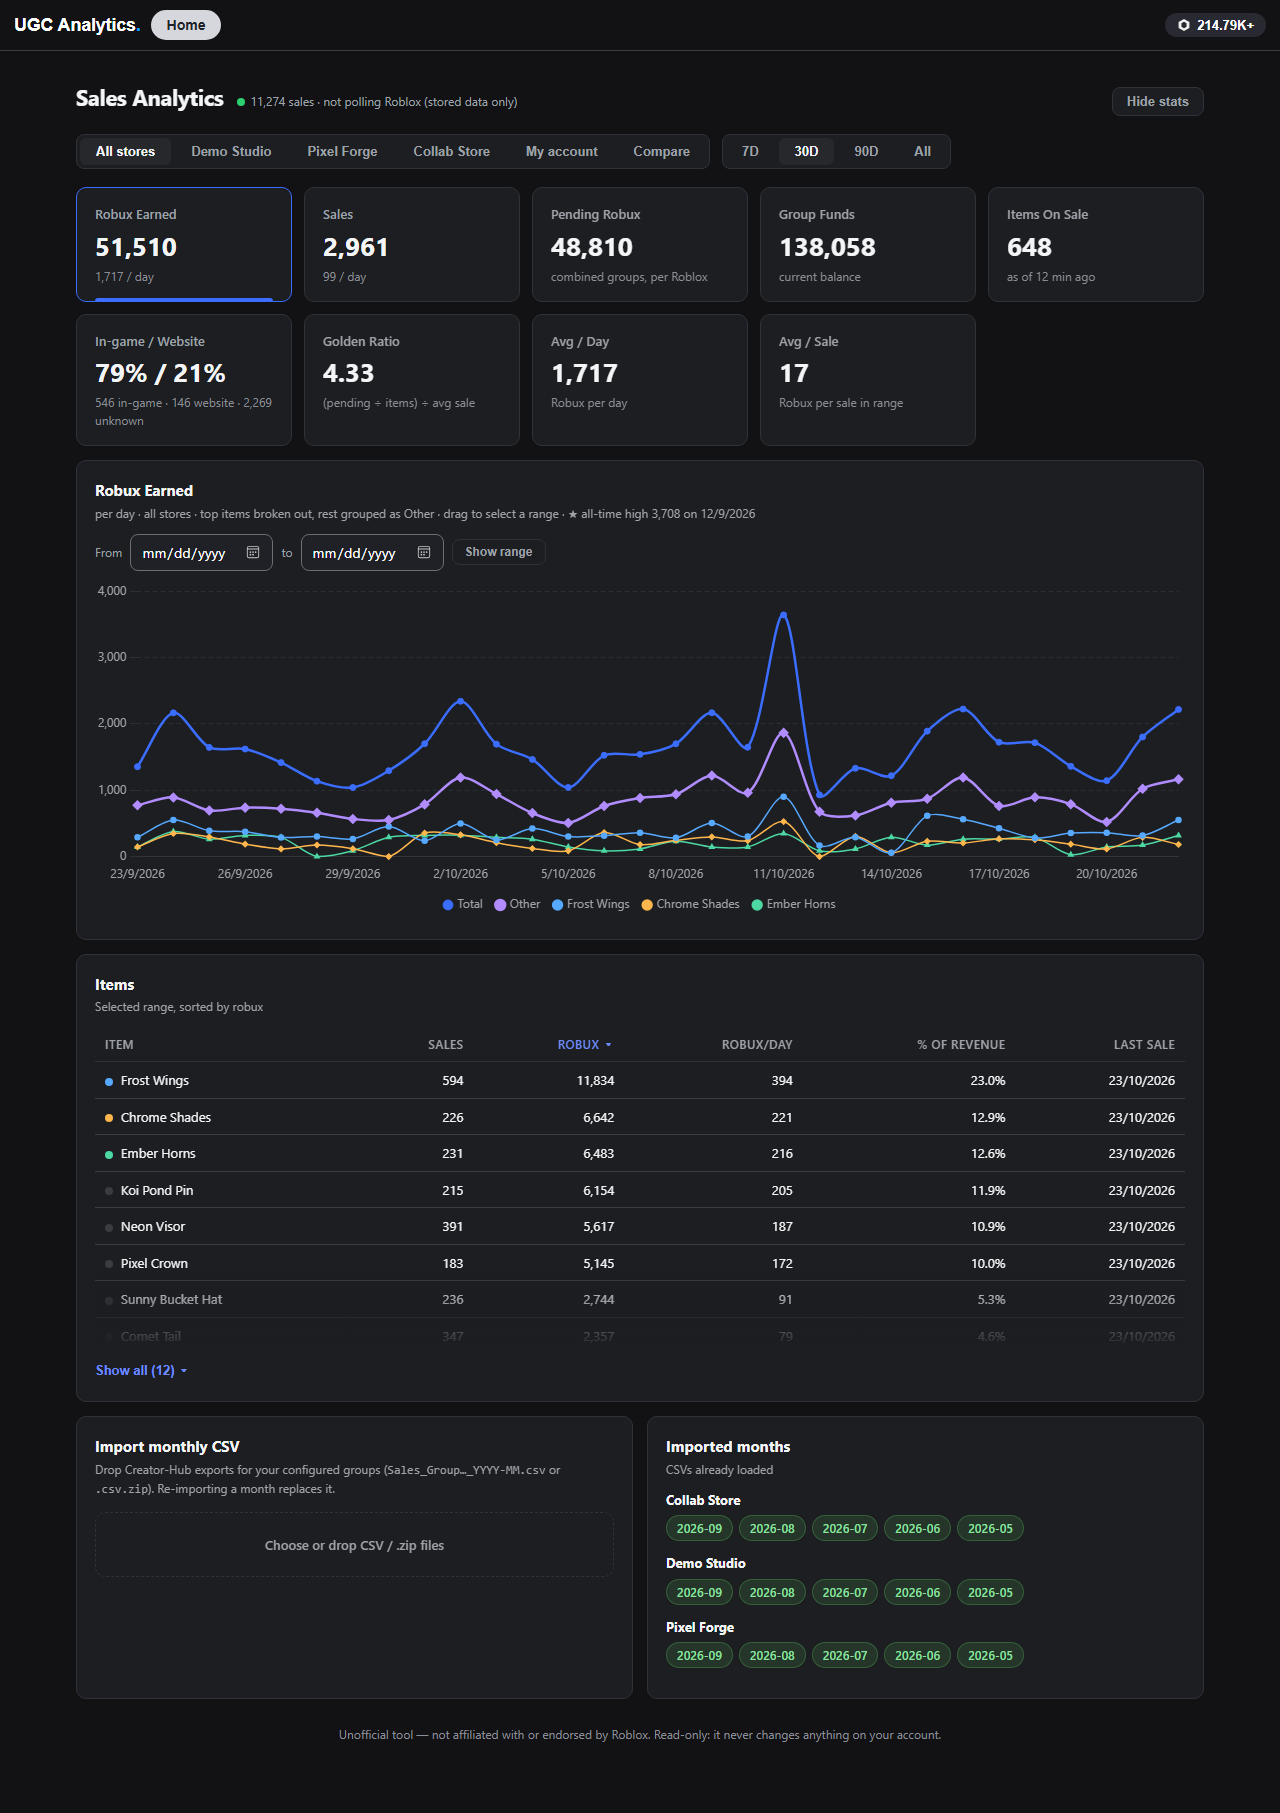
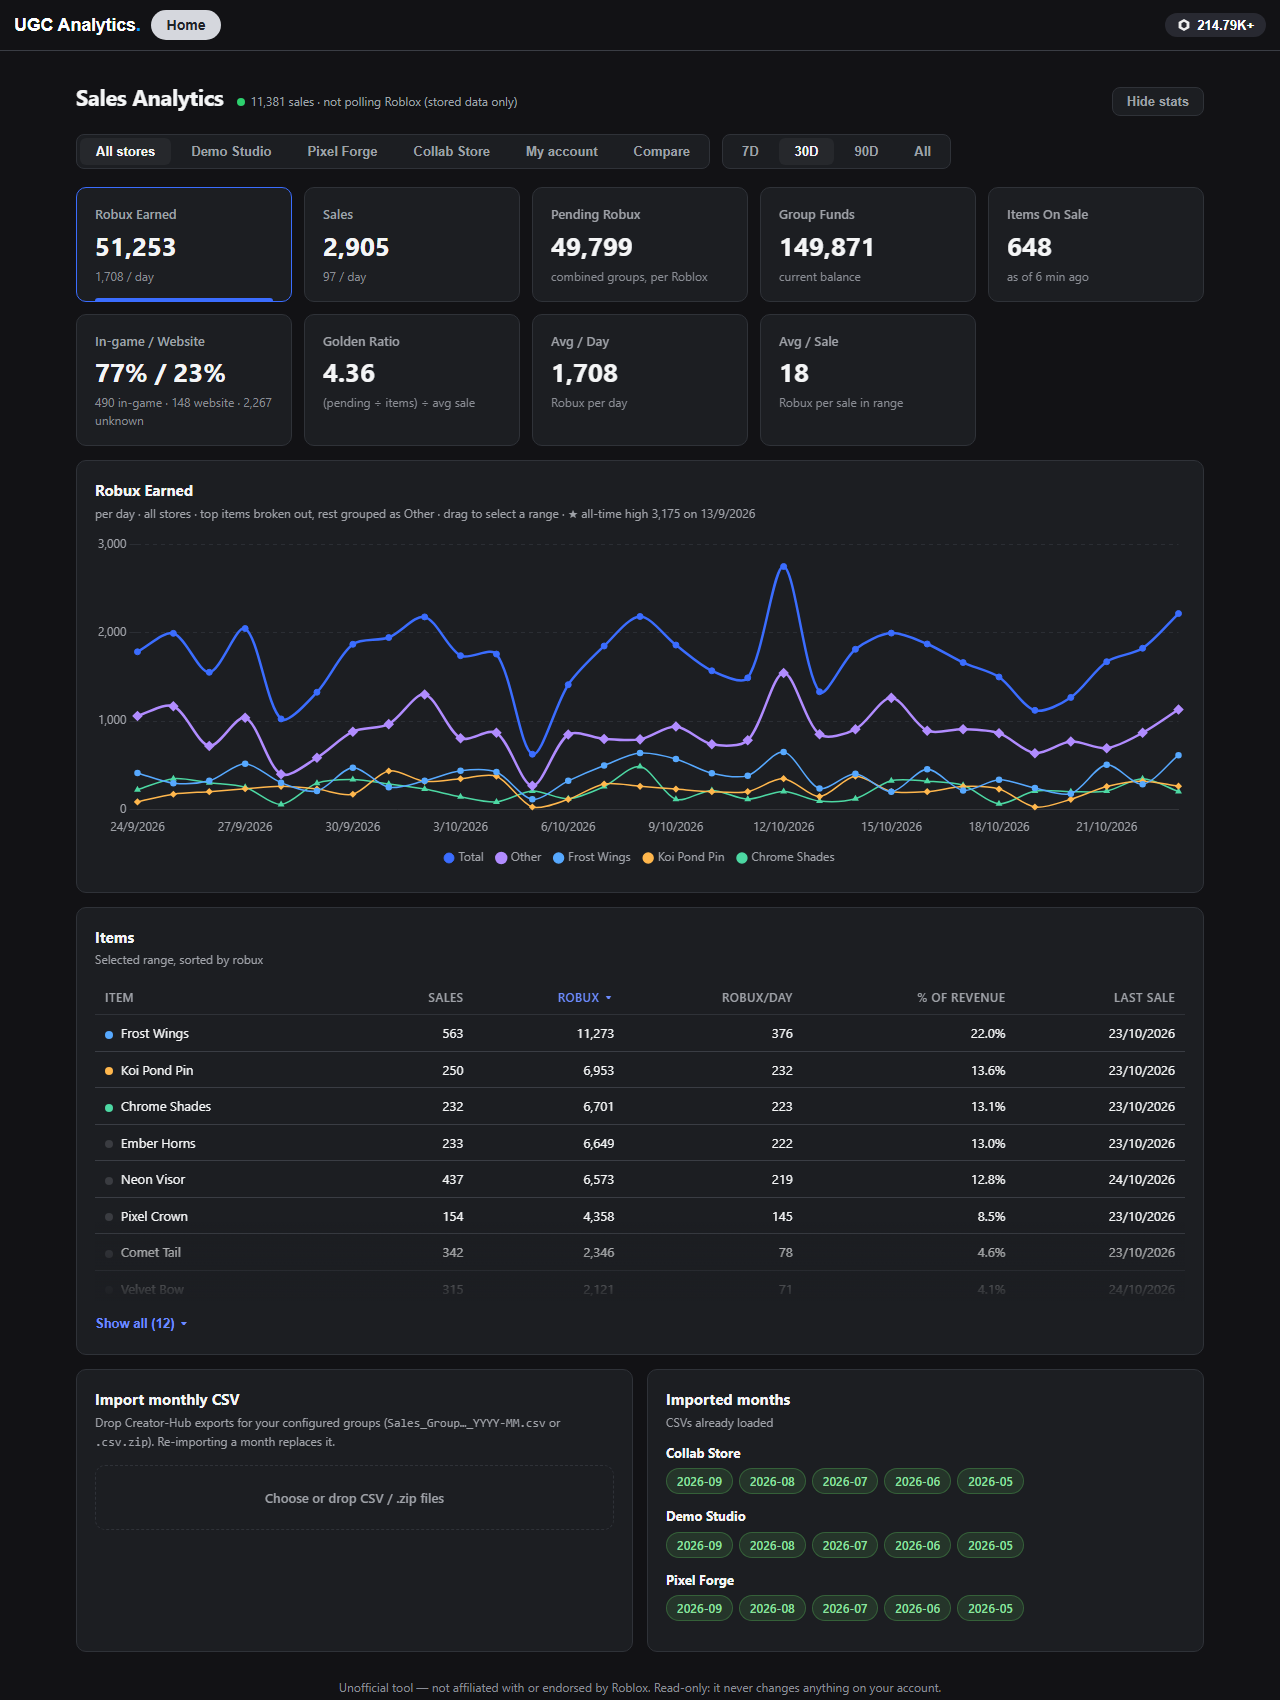
Remove the From/To date-range form above the chart
Drag-to-select on the chart still sets a custom range (with the clear chip);
the separate date form is gone, matching the original dashboard.
README screenshot retaken from the synthetic demo.

diff --git a/roblox_sales/static/app.js b/roblox_sales/static/app.js
@@ -190,15 +190,6 @@ function setupRangeSelect() {
   });
   canvas.addEventListener("pointercancel", () => { dragging = false; sel.style.display = "none"; });
 }
-// the keyboard / single-pointer alternative to dragging (inclusive of both days)
-$("rangeForm").addEventListener("submit", e => {
-  e.preventDefault();
-  let a = $("rgFrom").value, b = $("rgTo").value;
-  if (!a || !b) return;
-  if (a > b) [a, b] = [b, a];
-  customRange = { s: new Date(a + "T00:00:00Z").getTime(), e: new Date(b + "T00:00:00Z").getTime() + 864e5 - 1 };
-  render();
-});
 
 function render() {
   const data = filtered();
@@ -211,8 +202,6 @@ function render() {
     curSrc, v => { curSrc = v; customRange = null; render(); });
   const cmp = curSrc === "Compare";
   $("rangeTabs").style.display = cmp ? "none" : "";
-  $("rangeForm").hidden = cmp;
-  if (customRange) { $("rgFrom").value = dayKey(customRange.s); $("rgTo").value = dayKey(customRange.e); }
   if (cmp) $("rangeTabs").replaceChildren();
   else {
     mkTabs($("rangeTabs"),

diff --git a/roblox_sales/static/style.css b/roblox_sales/static/style.css
@@ -242,9 +242,6 @@ input:focus, select:focus, textarea:focus { box-shadow:0 0 0 3px rgba(0,162,255,
     letter-spacing:inherit; text-transform:inherit; cursor:pointer; }
   .sales-dash th.sortable.on .sd-sort::after { content:" ▾"; }
   /* the keyboard alternative to drag-selecting a range on the chart */
-  .sales-dash .sd-range { display:flex; align-items:center; gap:8px; flex-wrap:wrap; margin:0 0 10px; font-size:12px; color:var(--sd-dim); }
-  .sales-dash .sd-range label { margin:0; font-size:12px; color:var(--sd-dim); }
-  .sales-dash .sd-range .sd-eye { margin-left:0; padding:5px 12px; font-size:12px; }
   /* dark date pickers (color-scheme:dark darkens the popup and its icon) */
   .sales-dash input[type=date] {
     background:var(--panel-2); color:var(--fg); border:1px solid var(--line-ctl);

diff --git a/roblox_sales/static/index.html b/roblox_sales/static/index.html
@@ -84,11 +84,6 @@
 <div class="panel">
   <h2 id="chartTitle">Robux Earned</h2>
   <div class="sub" id="chartSub"></div>
-  <form class="sd-range" id="rangeForm">
-    <label for="rgFrom">From</label><input type="date" id="rgFrom" required>
-    <label for="rgTo">to</label><input type="date" id="rgTo" required>
-    <button type="submit" class="sd-eye">Show range</button>
-  </form>
   <div class="chartwrap"><canvas id="chMain" role="img" aria-label="Sales chart" aria-describedby="chartSub"></canvas></div>
 </div>
 
